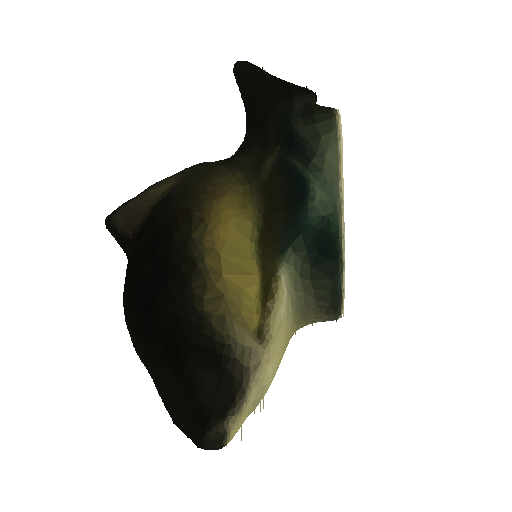
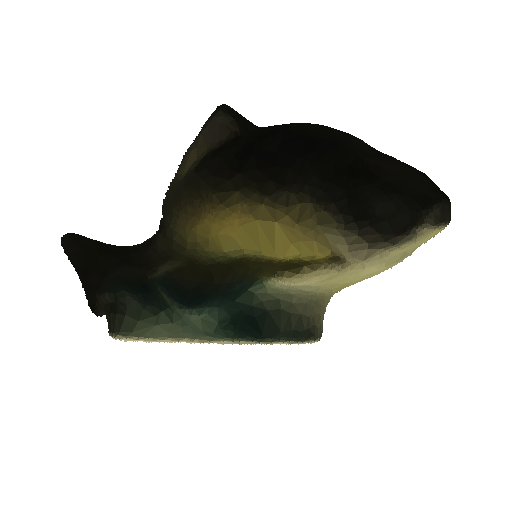
Fixed gouraud too

Changed region(s): [[0.125, 0.0938, 0.9062, 0.875], [0.5, 0.3125, 0.5312, 0.3438], [0.3125, 0.5, 0.3438, 0.5312]]

diff --git a/inc/triangle_filling.py b/inc/triangle_filling.py
@@ -21,44 +21,26 @@ def render_smooth(verts2d, vcolors, img):
     active_edges = np.array([False, False, False])
     active_nodes = np.zeros((3, 2))
 
-    y_min, y_max = int(np.amin(y_limits_of_edge)), int(np.amax(y_limits_of_edge))
     is_invisible = False
-
     node_combination_on_edge = {0: [0, 1],
                                 1: [0, 2],
                                 2: [1, 2]
                                 }
 
-    for i, y_limit in enumerate(y_limits_of_edge):
-        if y_limit[1] == y_max:
-            if sigma_of_edge[i] == 0:  # upper horizontal line
-                img = clr.color_horizontal(i, y_max, x_limits_of_edge, None, img, node_combination_on_edge, vcolors)
-        if y_limit[0] == y_min:  # y-scan line meets new edge from the bottom
-            if sigma_of_edge[i] == 0:  # lower horizontal line
-                img = clr.color_vertex(y_max, i, sigma_of_edge, vertices_of_edge, verts2d, vcolors, img)
-                continue
-            if isnan(sigma_of_edge[i]):  # it's an invisible line
-                is_invisible = True
-                continue
-            active_edges[i] = True  # in other cases, it's an active line
-            pos = np.argmin(vertices_of_edge[i, :, 1])
-            active_nodes[i] = [vertices_of_edge[i, pos, 0], y_limits_of_edge[i, 0]]
-
+    active_edges, active_nodes, is_invisible = tls.initial_active_elements(active_edges, active_nodes, vertices_of_edge,
+                                                                           y_limits_of_edge, sigma_of_edge)
     if is_invisible:
         return img
 
-    # y scan
-    for y in range(y_min + 1, y_max):
+    for y in range(y_min, y_max):
         active_edges, active_nodes, updated_nodes = tls.update_active_edges(y, vertices_of_edge, y_limits_of_edge,
                                                                             sigma_of_edge, active_edges, active_nodes)
         active_nodes = tls.update_active_nodes(sigma_of_edge, active_edges, active_nodes, updated_nodes)
-        # dsp.show_vscan(y, active_edges, active_nodes, vertices_of_edge)
-        # print('y= ', y)
+
         img, active_nodes_color = tls.paint_active_nodes(y, node_combination_on_edge,
                                                          x_limits_of_edge, y_limits_of_edge, sigma_of_edge,
                                                          active_edges, active_nodes, vcolors, img)
-        # print(active_nodes)
-        # print(active_edges)
+
         x_left, idx_left = np.min(active_nodes[active_edges, 0]), np.argmin(active_nodes[active_edges, 0])
         x_right, idx_right = np.max(active_nodes[active_edges, 0]), np.argmax(active_nodes[active_edges, 0])
         c1, c2 = active_nodes_color[active_edges][idx_left], active_nodes_color[active_edges][idx_right]
@@ -90,16 +72,12 @@ def render_flat(verts2d, vcolors, img):
     active_nodes = np.zeros((3, 2))
 
     active_edges, active_nodes, is_invisible = tls.initial_active_elements(active_edges, active_nodes, vertices_of_edge,
-                                                                           x_limits_of_edge, y_limits_of_edge,
-                                                                           sigma_of_edge, new_color, img)
+                                                                           y_limits_of_edge, sigma_of_edge)
     if is_invisible:
         return img
 
     # dsp.show_vscan(y_min, active_edges, active_nodes, vertices_of_edge)
-    for y in range(y_min + 1, y_max + 1):
-        active_edges, active_nodes, updated_nodes = tls.update_active_edges(y, vertices_of_edge, y_limits_of_edge,
-                                                                            sigma_of_edge, active_edges, active_nodes)
-        active_nodes = tls.update_active_nodes(sigma_of_edge, active_edges, active_nodes, updated_nodes)
+    for y in range(y_min, y_max + 1):
         # dsp.show_vscan(y, active_edges, active_nodes, vertices_of_edge)
         cross_counter = 0
         for x in range(x_min, x_max + 1):
@@ -109,6 +87,9 @@ def render_flat(verts2d, vcolors, img):
             elif y == y_max and np.count_nonzero(x == np.around(active_nodes[active_edges][:, 0])) > 0:
                 img[x, y] = new_color
 
+        active_edges, active_nodes, updated_nodes = tls.update_active_edges(y, vertices_of_edge, y_limits_of_edge,
+                                                                            sigma_of_edge, active_edges, active_nodes)
+        active_nodes = tls.update_active_nodes(sigma_of_edge, active_edges, active_nodes, updated_nodes)
     return img
 
 
@@ -131,7 +112,7 @@ def render(verts2d, faces, vcolors, depth, m, n, shade_t):
     # order from the farthest triangle to the closest, depth-wise
     triangles_in_order = list(np.flip(np.argsort(depth_tr)))
 
-    for t in triangles_in_order:
+    for t in triangles_in_order:#[4004:4005]:
         vertices_tr = faces[t]
         verts2d_tr = np.array(verts2d[vertices_tr])  # x,y of the 3 vertices of triangle t
         vcolors_tr = np.array(vcolors[vertices_tr])  # color of the 3 vertices of triangle t

diff --git a/inc/coloring.py b/inc/coloring.py
@@ -56,6 +56,32 @@ def color_horizontal(edge_idx, y, x_limits_of_edge, color, img, node_combination
     return img
 
 
+def color_contour(y, node_combination_on_edge, x_limits_of_edge, y_limits_of_edge, sigma_of_edge,
+                  active_edges, active_nodes, vcolors, img):
+    active_nodes_color = np.zeros((3, 3))
+
+    for i, point in enumerate(active_nodes):
+        if active_edges[i]:
+            # The edge coordinates of every active node. This is the edge i.
+            x_edge = np.array(x_limits_of_edge[i])
+            y_edge = np.array(y_limits_of_edge[i])
+            node_pair = node_combination_on_edge[i]
+            c1, c2 = vcolors[node_pair[0]], vcolors[node_pair[1]]
+            # case of horizontal edge
+            # if sigma_of_edge[i] == 0:
+            #     active_nodes_color[i] = interpolate_color(x_edge[0], x_edge[1], active_nodes[i, 0], c1, c2)
+            #     for x in range(x_edge[0], x_edge[1]):
+            #         img[int(np.around(x)), int(np.around(y))] = interpolate_color(x_edge[0], x_edge[1], x, c1, c2)
+            if np.abs(sigma_of_edge[i]) == float('inf'):
+                active_nodes_color[i] = interpolate_color(y_edge[0], y_edge[1], y, c1, c2)
+                img[int(active_nodes[i, 0]), int(np.around(y))] = active_nodes_color[i]
+            else:
+                active_nodes_color[i] = interpolate_color(y_edge[0], y_edge[1], y, c1, c2)
+                img[int(active_nodes[i, 0]), int(np.around(y))] = active_nodes_color[i]
+
+    return img, active_nodes_color
+
+
 def color_vertex(y_max, edge_idx, sigma_of_edge, vertices_of_edge, verts2d, vcolors, img):
     """Colors a single vertex
 

diff --git a/inc/Helpers/tools.py b/inc/Helpers/tools.py
@@ -3,15 +3,11 @@ import numpy as np
 import inc.coloring as clr
 
 
-def initial_active_elements(active_edges, active_nodes, vertices_of_edge, x_limits_of_edge,
-                            y_limits_of_edge, sigma_of_edge, new_color, img):
+def initial_active_elements(active_edges, active_nodes, vertices_of_edge, y_limits_of_edge, sigma_of_edge):
     y_min, y_max = int(np.amin(y_limits_of_edge)), int(np.amax(y_limits_of_edge))
     is_invisible = False
 
     for i, y_limit in enumerate(y_limits_of_edge):
-        if y_limit[1] == y_max:
-            if sigma_of_edge[i] == 0:  # upper horizontal line
-                img = clr.color_horizontal(None, y_max, x_limits_of_edge, new_color, img, None, None)
         if y_limit[0] == y_min:  # y-scan line meets new edge from the bottom
             if sigma_of_edge[i] == 0:  # lower horizontal line
                 continue

diff --git a/inc/Helpers/display.py b/inc/Helpers/display.py
@@ -1,5 +1,6 @@
 import matplotlib.pyplot as plt
 import imageio
+import numpy as np
 
 
 def display_npy(img, save=False, filename='out'):
@@ -14,7 +15,8 @@ def display_npy(img, save=False, filename='out'):
     plt.imshow(img, interpolation='nearest')
     plt.show()
     if save:
-        imageio.imwrite(filename + '.png', img)
+        imageio.imsave(filename + '.png', img)
+        # imageio.imsave(filename + '.png', (img * 255).astype(np.uint8))
 
 
 def show_vscan(y, active_edges, active_nodes, vertices_of_edge):

diff --git a/inc/Helpers/reader.py b/inc/Helpers/reader.py
@@ -20,7 +20,12 @@ def load_data_npy(filename):
     faces = np.array(data['faces'])
     depth = np.array(data['depth'])
 
-    return verts2d, vcolors, faces, depth
+    # Turn the image by 90 degrees
+    verts2d_final = np.zeros((verts2d.shape[0], 2))
+    verts2d_final[:, 0] = verts2d[:, 1]
+    verts2d_final[:, 1] = verts2d[:, 0]
+
+    return verts2d_final, vcolors, faces, depth
 
 
 """
